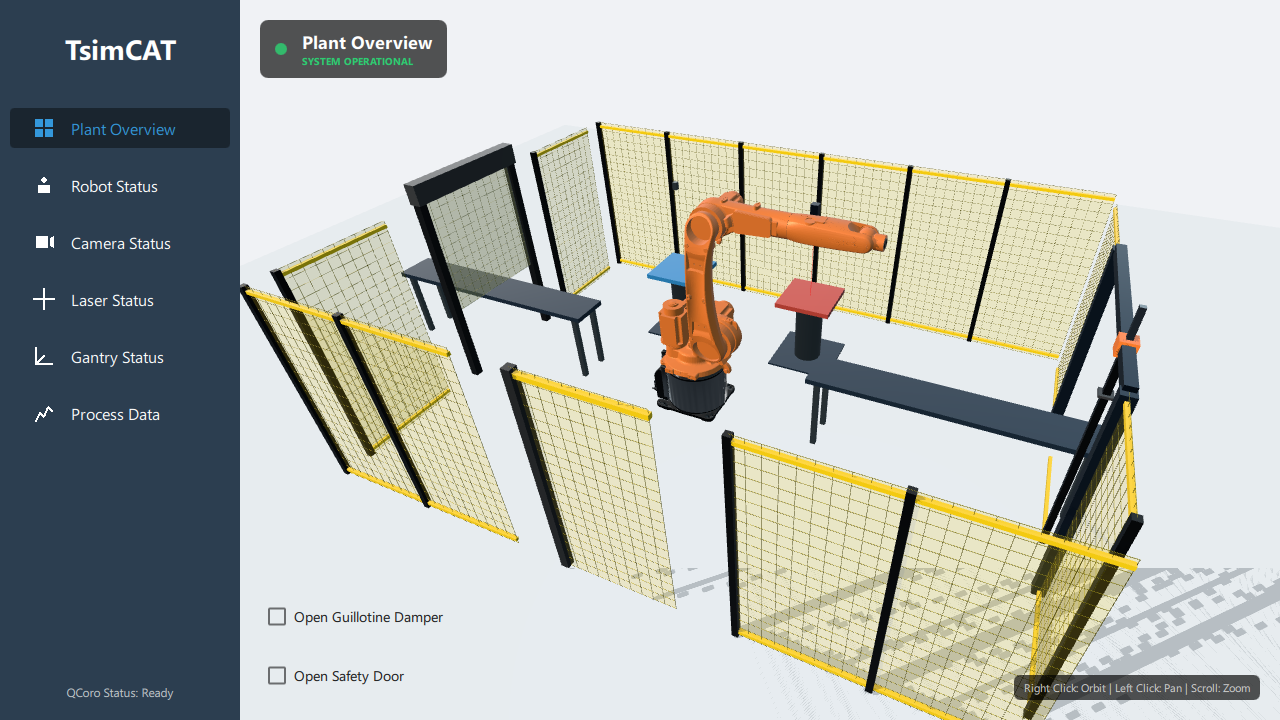
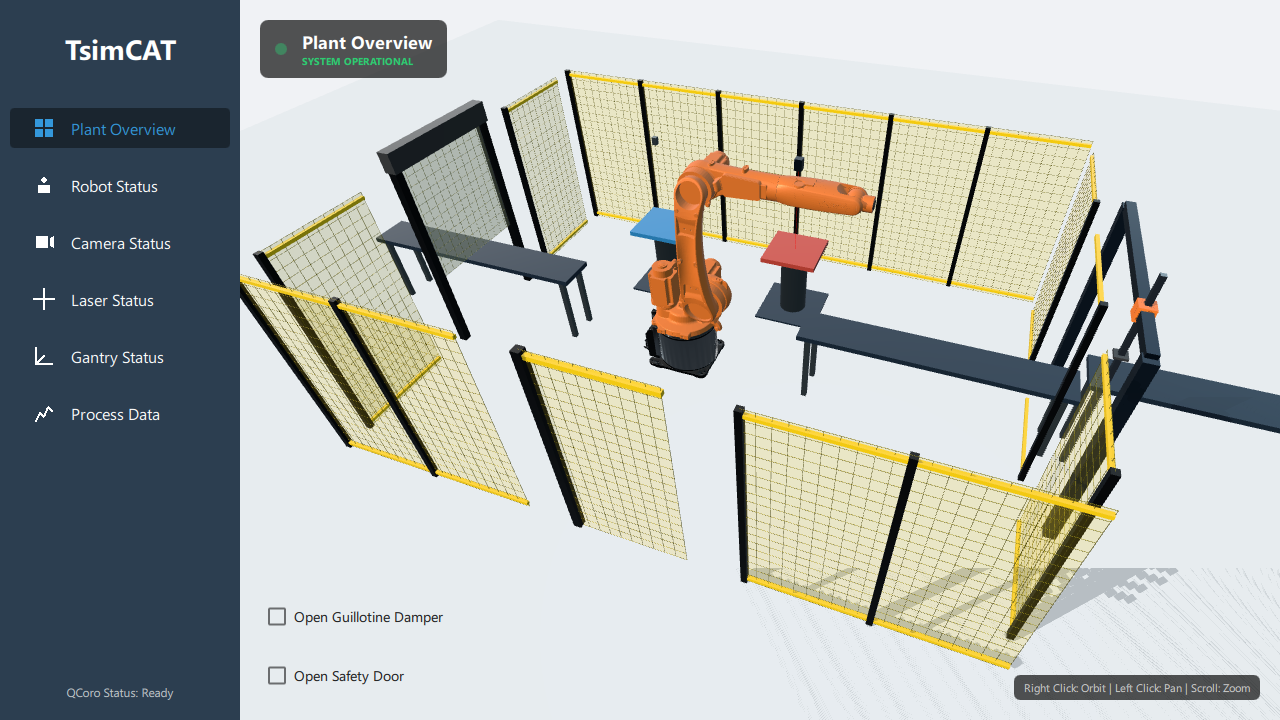
ovw

diff --git a/src/TsimCAT/UI/controls/FenceModel.qml b/src/TsimCAT/UI/controls/FenceModel.qml
@@ -12,6 +12,39 @@ Node {
 
     readonly property color fenceColor: "#f1c40f" // Safety Yellow
 
+    // Improved Procedural Chain Link Texture
+    Texture {
+        id: gridTexture
+        sourceItem: Item {
+            width: 64
+            height: 64
+            x: -500; y: -500 
+            
+            Rectangle {
+                anchors.fill: parent
+                color: "black"
+                
+                Rectangle {
+                    width: 100; height: 6
+                    color: "white"
+                    rotation: 45
+                    anchors.centerIn: parent
+                }
+                Rectangle {
+                    width: 100; height: 6
+                    color: "white"
+                    rotation: -45
+                    anchors.centerIn: parent
+                }
+            }
+            layer.enabled: true
+        }
+        scaleU: 30
+        scaleV: 15
+        tilingModeHorizontal: Texture.Repeat
+        tilingModeVertical: Texture.Repeat
+    }
+
     // Helper for a physical wire mesh panel
     component WireMesh : Node {
         property real w: 1000
@@ -39,7 +72,7 @@ Node {
             }
         }
 
-        // Faint semi-transparent backing to give it some "volume"
+        // Faint semi-transparent backing
         Model {
             position: Qt.vector3d(0, h/2, 0)
             source: "#Cube"
@@ -55,27 +88,31 @@ Node {
         }
     }
 
+    // Common Material for frame/posts
+    PrincipledMaterial {
+        id: postMaterial
+        baseColor: "#222"
+        metalness: 0.8
+    }
+
     // Helper for a single fence panel segment
     component FencePanel : Node {
         property real panelWidth: 1000
         property bool showMesh: true
 
-        // Left Post
         Model {
             position: Qt.vector3d(-panelWidth/2, 1000, 0)
             source: "#Cube"
             scale: Qt.vector3d(0.5, 20, 0.5)
-            materials: [ PrincipledMaterial { baseColor: "#222"; metalness: 0.8 } ]
+            materials: [ postMaterial ]
         }
 
-        // The Mesh
         WireMesh {
             visible: showMesh
             w: panelWidth
             h: 2000
         }
 
-        // Horizontal Rails (Frame)
         Model {
             position: Qt.vector3d(0, 1950, 0)
             source: "#Cube"
@@ -94,18 +131,17 @@ Node {
     component GuillotineDamper : Node {
         property real panelWidth: 1200
         
-        // Frame/Guides
         Model {
             position: Qt.vector3d(-panelWidth/2, 1000, 0)
             source: "#Cube"
             scale: Qt.vector3d(0.8, 20, 0.8)
-            materials: [ PrincipledMaterial { baseColor: "#111" } ]
+            materials: [ postMaterial ]
         }
         Model {
             position: Qt.vector3d(panelWidth/2, 1000, 0)
             source: "#Cube"
             scale: Qt.vector3d(0.8, 20, 0.8)
-            materials: [ PrincipledMaterial { baseColor: "#111" } ]
+            materials: [ postMaterial ]
         }
         
         Model {
@@ -117,17 +153,19 @@ Node {
 
         // Moving Blade
         Node {
-            position: Qt.vector3d(0, 1400 + (fenceRoot.damperOpen ? 1000 : 0), 0)
-            Behavior on position { Vector3dAnimation { duration: 1500; easing.type: Easing.InOutQuad } }
+            id: damperBlade
+            y: 1400 + (fenceRoot.damperOpen ? 1000 : 0)
+            
+            Behavior on y { 
+                NumberAnimation { duration: 1500; easing.type: Easing.InOutQuad } 
+            }
             
             WireMesh {
                 w: panelWidth
                 h: 1200
-                // Adjust height for the blade
                 y: -600 
             }
             
-            // Blade Frame
             Model {
                 source: "#Cube"
                 scale: Qt.vector3d(panelWidth/100, 12, 0.2)
@@ -144,14 +182,17 @@ Node {
             position: Qt.vector3d(-doorWidth/2, 1000, 0)
             source: "#Cube"
             scale: Qt.vector3d(0.7, 20, 0.7)
-            materials: [ PrincipledMaterial { baseColor: "#222" } ]
+            materials: [ postMaterial ]
         }
 
+        // Swinging Leaf
         Node {
             position: Qt.vector3d(-doorWidth/2, 0, 0)
+            
+            // Fix: Animate the Y component directly
             eulerRotation.y: fenceRoot.doorOpen ? -100 : 0
-            Behavior on eulerRotation { 
-                Vector3dAnimation { 
+            Behavior on eulerRotation.y { 
+                NumberAnimation { 
                     duration: 1200
                     easing.type: Easing.InOutBack 
                 } 
@@ -193,7 +234,7 @@ Node {
         FencePanel { position: Qt.vector3d(2500, 0, 0) }
     }
 
-    // Left Side
+    // Left Side (Entry)
     Node {
         position: Qt.vector3d(-width/2, 0, 0)
         eulerRotation.y: 90
@@ -202,7 +243,7 @@ Node {
         FencePanel { position: Qt.vector3d(1500, 0, 0) }
     }
 
-    // Right Side
+    // Right Side (Exit)
     Node {
         position: Qt.vector3d(width/2, 0, 0)
         eulerRotation.y: 90